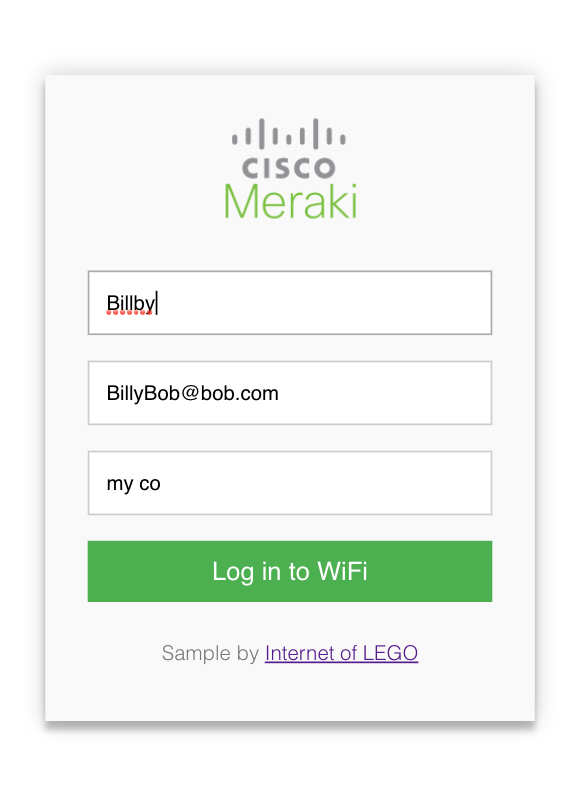
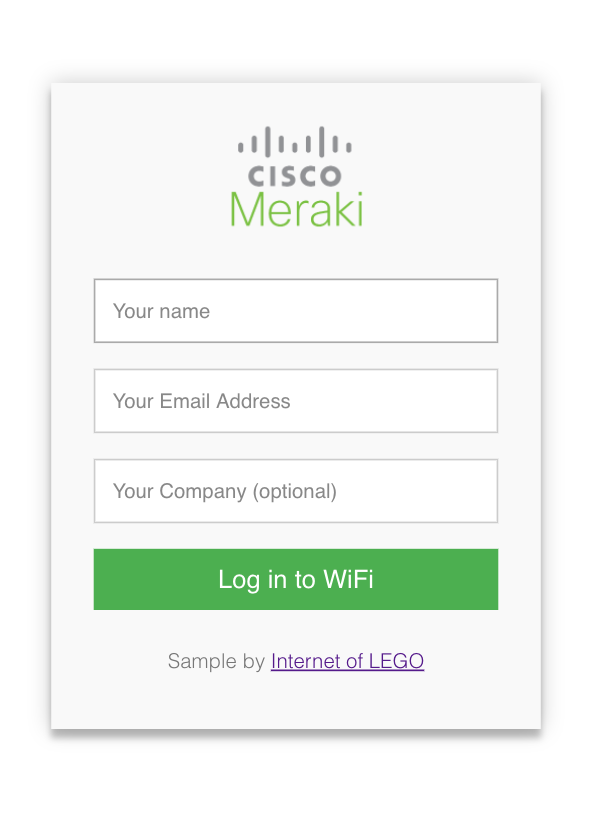
Updated README and screenshot

diff --git a/README.md b/README.md
@@ -1,21 +1,33 @@
 
-## excap-clientjs
-# Cisco Meraki Captive Portal API (ExCAP) - Client Side JS
+#  Meraki Captive Portal
+*Static HTML/JS/CSS Site for a Click-through Splash Page*
+
+
+
 
 ## Overview
-Example Click-through Splash Page for Cisco Meraki networks.
+Cisco Meraki provides cloud managed WiFi with the ability to host your own "Splash Page", which is a captive portal service for authenticating users to join the network. This concept is called an External Captive Portal (ExCaP). 
 
-Just host this file on any web server such as Apache and that's it!
+Meraki provides two splash page modes, **click-through** and **sign-on**. This application will use the click-through method.
+
+Just host these files in the public directory on any web server such as Apache or Firebase Hosting, configure your Meraki SSID to use your server and that's it!
+
+### Sample URL received from Meraki to this page.
+*You can use this URL to test your application without an access point*
+```
+http://localhost:5000/?base_grant_url=https%3A%2F%2Fn143.network-auth.com%2Fsplash%2Fgrant&user_continue_url=http%3A%2F%2Fspeedof.me%2F&node_id=149624922840090&node_mac=88:15:44:60:1c:1a&gateway_id=149624922840090&client_ip=10.255.60.208&client_mac=f4:5c:89:9b:17:67
+```
 
 ## Installation
-* Host this file on a webserver
+* Host these files on a webserver
 * Configure the Meraki wireless SSID with a Click-Through splash page authentication
-    * Dashboard --> Configure --> Splash Page: Click-through
-* Point the Meraki Splash page "Customer URL" to the HTML file. (https://yourserver/splash.html or splash-with-style.html)
-    * Dashboard --> Configure --> Splash Page --> Custom URL: `https://yourserver.com/splash.html`
+    * Meraki Dashboard --> Configure --> Splash Page: Click-through
 * Add the domain address of the webserver to the "Walled Garden" 
-    * Dashboard --> Configure --> Access Control --> SSID:yourSSID --> Walled Garden.
-    * Note: You will need to use the IP address instead of the domain name or contact Meraki Support to enable Walled Garden Host Names
+    * Meraki Dashboard --> Configure --> Access Control --> SSID:yourSSID --> Walled Garden.
+    * Note: You will need to use the IP address instead of the domain name or contact Meraki Support to enable Walled Garden Domain Names
+* Point the Meraki Splash page "Customer URL" to the HTML file. (https://yourserver/splash.html or splash-with-style.html)
+    * Meraki Dashboard --> Configure --> Splash Page --> Custom URL: `https://yourserver.com/splash.html`
+
 
 
 
